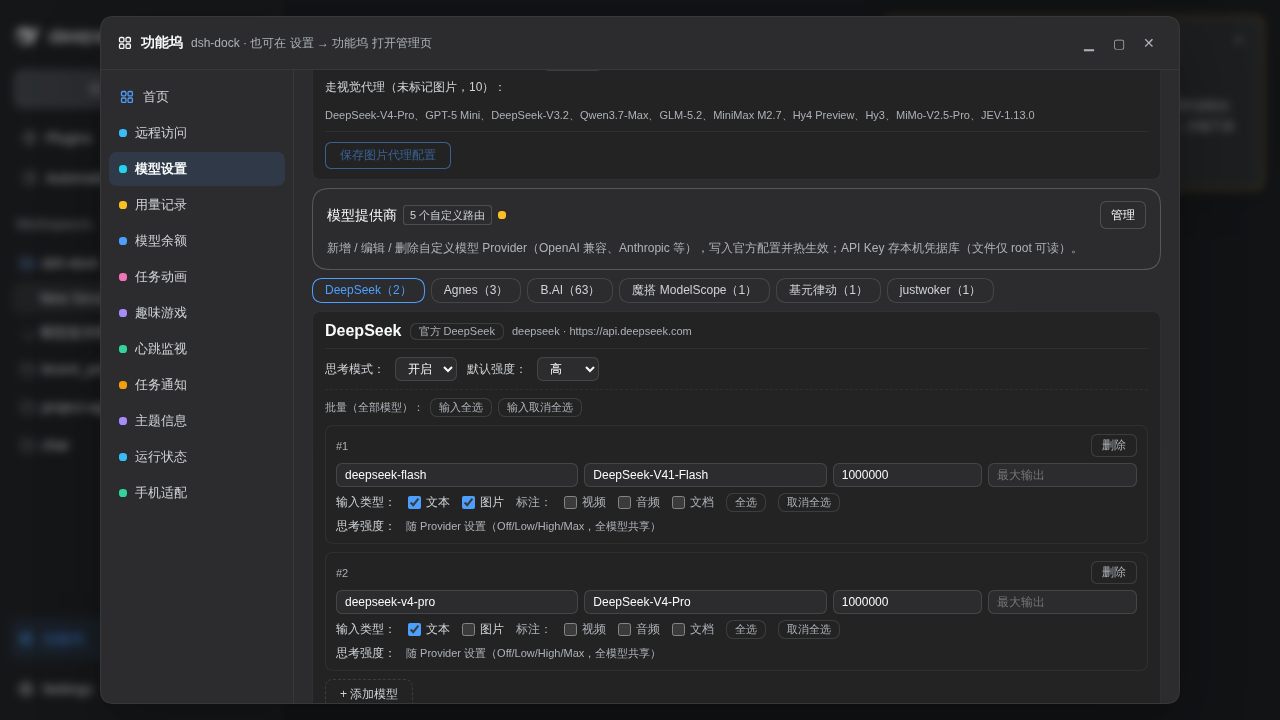
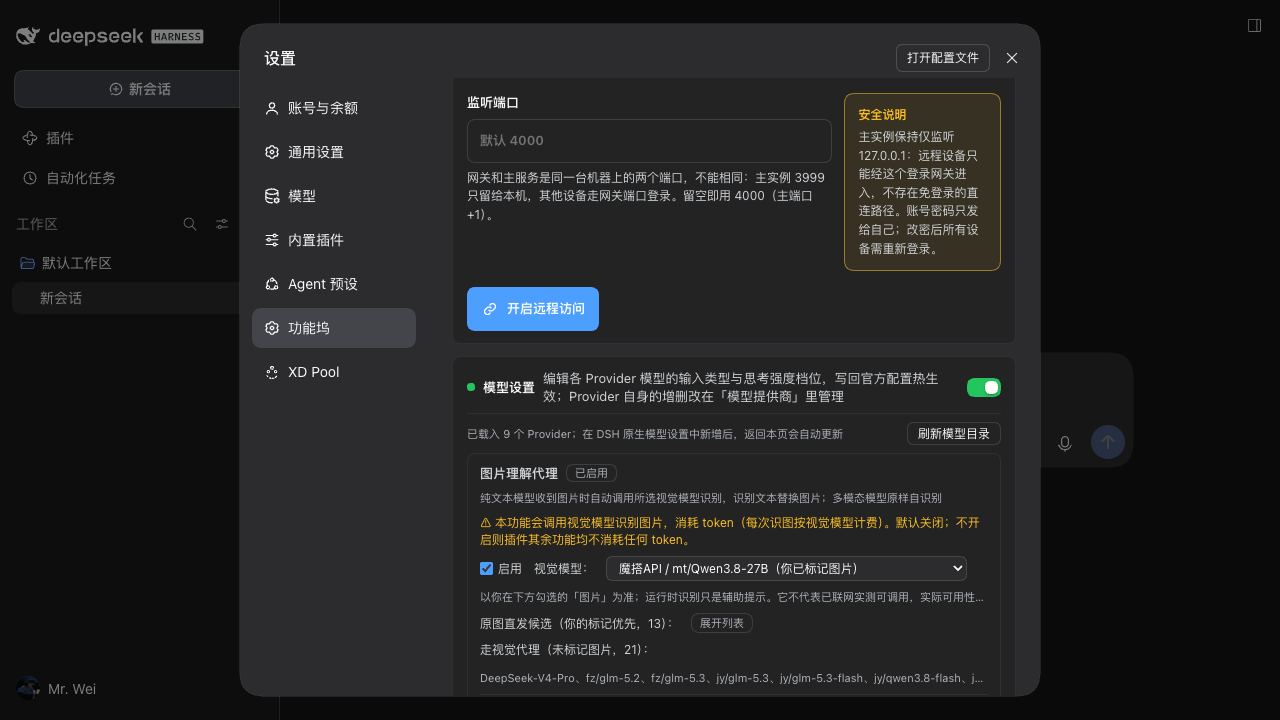
发版 v0.16.0：新增【语音朗读】+ 插件路由全量挂信任栅栏 + 模型提供商拆分
本版自 v0.15.0 以来共 14 条提交（含 3 条版本补丁），功能内容汇总：

新增

- 新功能【语音朗读】（features/tts/）：纯浏览器 Web Speech API 实现（不耗 token、
  不过服务器、零新依赖）。回合下方喇叭按钮三态（朗读/暂停/继续，暂停停在当前字、
  继续不重头），旁有「重新朗读」与「停止」；⚙ 就地快设浮层（语速/音量滑杆，
  播放中拖动下一句生效，宿主落盘 400ms 防抖）；任务结束自动朗读最后一条回复
  （走会话级任务追踪，冷读历史不补读；宿主路由不可用时回合尾本地兜底，与主路径
  键级去重）；Markdown 按人话清洗（跳过代码块与表格、思考过程不读、链接只念锚文字、
  只读前 N 句/字数上限、长文按句分片）；切换内容等 Chrome 异步清队（cancel 冲刷
  完才播新内容，不排旧队列）。配置段 .volatile()，宿主路由挂信任栅栏，默认停用。
- 【模型设置】拆分出独立功能【模型提供商】（features/providerconfig/，可单独启停）：
  Provider 增删改、API Key 写入、拉取上游模型列表全部迁出；「模型设置」只管模型
  条目属性（输入模态/思考强度）。共享逻辑上提 src/model-directory.js 与
  src/model-draft.js。/dsh-dock/models 的 GET 不再附带 apiKeyConfigured。
- 【任务动画】桌面伙伴挂点升级（features/animation/ 配合宿主回合尾座位）。

安全

- 插件路由全部挂上 DSH 的浏览器信任栅栏（rejectUntrustedRequest →
  connection.requestRejection，401/403，fail-closed）：此前任何能连到端口的人都能
  直接调用插件路由，实际可利用面至少有 mobile-relay 的改远程账号/开 0.0.0.0 网关
  与 models 路由的 Key 外带 + SSRF 两条。9 处 webServer.register 全部在入口第一行
  调用守卫，新增静态契约测试防新路由漏挂。

修复

- 【任务通知】需确认卡：移除「前台看过 8 秒也收」计时（漏提醒），改为绑定审批项
  对账自动收起（处理完即收、没处理完一直挂）；结束卡常驻到「看过」：点卡片直达
  会话、点进会话自动收起、手动 ✕，≥3 张自动叠放（悬停展开），上限 4 → 12。
- 【手机适配】手机端左上角标题被汉堡菜单压住：会话页头 padding-left 44px、两条
  原生页头补 28px（flex gap 16px → 4px 补回内容宽度）；430–320px 四档宽度
  逐字实测零侵入、无横向溢出、行数零回归。

文档

- 截图 dock-modelconfig.png 按拆分后的界面重拍（1280×720，隔离 dsh web 实例 +
  Playwright，内容区不再有「模型提供商」入口卡）。

验证：npm run build:client 重建产物（client.js 已带 0.16.0）；
npm run test:client（42 用例）与 npm run test:host（9 套）全绿、无跳过；
npm pack 产物经脱敏扫描通过。

diff --git a/client.js b/client.js
@@ -12,7 +12,11 @@ var __getOwnPropNames = Object.getOwnPropertyNames;
 var __getProtoOf = Object.getPrototypeOf;
 var __hasOwnProp = Object.prototype.hasOwnProperty;
 var __commonJS = (cb, mod) => function __require() {
-  return mod || (0, cb[__getOwnPropNames(cb)[0]])((mod = { exports: {} }).exports, mod), mod.exports;
+  try {
+    return mod || (0, cb[__getOwnPropNames(cb)[0]])((mod = { exports: {} }).exports, mod), mod.exports;
+  } catch (e) {
+    throw mod = 0, e;
+  }
 };
 var __export = (target, all) => {
   for (var name in all)
@@ -36,18 +40,18 @@ var __toESM = (mod, isNodeMode, target) => (target = mod != null ? __create(__ge
 ));
 var __toCommonJS = (mod) => __copyProps(__defProp({}, "__esModule", { value: true }), mod);
 
-// node_modules/.pnpm/qrcode@1.5.4/node_modules/qrcode/lib/can-promise.js
+// node_modules/qrcode/lib/can-promise.js
 var require_can_promise = __commonJS({
-  "node_modules/.pnpm/qrcode@1.5.4/node_modules/qrcode/lib/can-promise.js"(exports, module2) {
+  "node_modules/qrcode/lib/can-promise.js"(exports, module2) {
     module2.exports = function() {
       return typeof Promise === "function" && Promise.prototype && Promise.prototype.then;
     };
   }
 });
 
-// node_modules/.pnpm/qrcode@1.5.4/node_modules/qrcode/lib/core/utils.js
+// node_modules/qrcode/lib/core/utils.js
 var require_utils = __commonJS({
-  "node_modules/.pnpm/qrcode@1.5.4/node_modules/qrcode/lib/core/utils.js"(exports) {
+  "node_modules/qrcode/lib/core/utils.js"(exports) {
     var toSJISFunction;
     var CODEWORDS_COUNT = [
       0,
@@ -124,9 +128,9 @@ var require_utils = __commonJS({
   }
 });
 
-// node_modules/.pnpm/qrcode@1.5.4/node_modules/qrcode/lib/core/error-correction-level.js
+// node_modules/qrcode/lib/core/error-correction-level.js
 var require_error_correction_level = __commonJS({
-  "node_modules/.pnpm/qrcode@1.5.4/node_modules/qrcode/lib/core/error-correction-level.js"(exports) {
+  "node_modules/qrcode/lib/core/error-correction-level.js"(exports) {
     exports.L = { bit: 1 };
     exports.M = { bit: 0 };
     exports.Q = { bit: 3 };
@@ -169,9 +173,9 @@ var require_error_correction_level = __commonJS({
   }
 });
 
-// node_modules/.pnpm/qrcode@1.5.4/node_modules/qrcode/lib/core/bit-buffer.js
+// node_modules/qrcode/lib/core/bit-buffer.js
 var require_bit_buffer = __commonJS({
-  "node_modules/.pnpm/qrcode@1.5.4/node_modules/qrcode/lib/core/bit-buffer.js"(exports, module2) {
+  "node_modules/qrcode/lib/core/bit-buffer.js"(exports, module2) {
     function BitBuffer() {
       this.buffer = [];
       this.length = 0;
@@ -204,9 +208,9 @@ var require_bit_buffer = __commonJS({
   }
 });
 
-// node_modules/.pnpm/qrcode@1.5.4/node_modules/qrcode/lib/core/bit-matrix.js
+// node_modules/qrcode/lib/core/bit-matrix.js
 var require_bit_matrix = __commonJS({
-  "node_modules/.pnpm/qrcode@1.5.4/node_modules/qrcode/lib/core/bit-matrix.js"(exports, module2) {
+  "node_modules/qrcode/lib/core/bit-matrix.js"(exports, module2) {
     function BitMatrix(size) {
       if (!size || size < 1) {
         throw new Error("BitMatrix size must be defined and greater than 0");
@@ -233,9 +237,9 @@ var require_bit_matrix = __commonJS({
   }
 });
 
-// node_modules/.pnpm/qrcode@1.5.4/node_modules/qrcode/lib/core/alignment-pattern.js
+// node_modules/qrcode/lib/core/alignment-pattern.js
 var require_alignment_pattern = __commonJS({
-  "node_modules/.pnpm/qrcode@1.5.4/node_modules/qrcode/lib/core/alignment-pattern.js"(exports) {
+  "node_modules/qrcode/lib/core/alignment-pattern.js"(exports) {
     var getSymbolSize = require_utils().getSymbolSize;
     exports.getRowColCoords = function getRowColCoords(version) {
       if (version === 1) return [];
@@ -268,9 +272,9 @@ var require_alignment_pattern = __commonJS({
   }
 });
 
-// node_modules/.pnpm/qrcode@1.5.4/node_modules/qrcode/lib/core/finder-pattern.js
+// node_modules/qrcode/lib/core/finder-pattern.js
 var require_finder_pattern = __commonJS({
-  "node_modules/.pnpm/qrcode@1.5.4/node_modules/qrcode/lib/core/finder-pattern.js"(exports) {
+  "node_modules/qrcode/lib/core/finder-pattern.js"(exports) {
     var getSymbolSize = require_utils().getSymbolSize;
     var FINDER_PATTERN_SIZE = 7;
     exports.getPositions = function getPositions(version) {
@@ -287,9 +291,9 @@ var require_finder_pattern = __commonJS({
   }
 });
 
-// node_modules/.pnpm/qrcode@1.5.4/node_modules/qrcode/lib/core/mask-pattern.js
+// node_modules/qrcode/lib/core/mask-pattern.js
 var require_mask_pattern = __commonJS({
-  "node_modules/.pnpm/qrcode@1.5.4/node_modules/qrcode/lib/core/mask-pattern.js"(exports) {
+  "node_modules/qrcode/lib/core/mask-pattern.js"(exports) {
     exports.Patterns = {
       PATTERN000: 0,
       PATTERN001: 1,
@@ -429,9 +433,9 @@ var require_mask_pattern = __commonJS({
   }
 });
 
-// node_modules/.pnpm/qrcode@1.5.4/node_modules/qrcode/lib/core/error-correction-code.js
+// node_modules/qrcode/lib/core/error-correction-code.js
 var require_error_correction_code = __commonJS({
-  "node_modules/.pnpm/qrcode@1.5.4/node_modules/qrcode/lib/core/error-correction-code.js"(exports) {
+  "node_modules/qrcode/lib/core/error-correction-code.js"(exports) {
     var ECLevel = require_error_correction_level();
     var EC_BLOCKS_TABLE = [
       // L  M  Q  H
@@ -790,9 +794,9 @@ var require_error_correction_code = __commonJS({
   }
 });
 
-// node_modules/.pnpm/qrcode@1.5.4/node_modules/qrcode/lib/core/galois-field.js
+// node_modules/qrcode/lib/core/galois-field.js
 var require_galois_field = __commonJS({
-  "node_modules/.pnpm/qrcode@1.5.4/node_modules/qrcode/lib/core/galois-field.js"(exports) {
+  "node_modules/qrcode/lib/core/galois-field.js"(exports) {
     var EXP_TABLE = new Uint8Array(512);
     var LOG_TABLE = new Uint8Array(256);
     (function initTables() {
@@ -823,9 +827,9 @@ var require_galois_field = __commonJS({
   }
 });
 
-// node_modules/.pnpm/qrcode@1.5.4/node_modules/qrcode/lib/core/polynomial.js
+// node_modules/qrcode/lib/core/polynomial.js
 var require_polynomial = __commonJS({
-  "node_modules/.pnpm/qrcode@1.5.4/node_modules/qrcode/lib/core/polynomial.js"(exports) {
+  "node_modules/qrcode/lib/core/polynomial.js"(exports) {
     var GF = require_galois_field();
     exports.mul = function mul(p1, p2) {
       const coeff = new Uint8Array(p1.length + p2.length - 1);
@@ -859,9 +863,9 @@ var require_polynomial = __commonJS({
   }
 });
 
-// node_modules/.pnpm/qrcode@1.5.4/node_modules/qrcode/lib/core/reed-solomon-encoder.js
+// node_modules/qrcode/lib/core/reed-solomon-encoder.js
 var require_reed_solomon_encoder = __commonJS({
-  "node_modules/.pnpm/qrcode@1.5.4/node_modules/qrcode/lib/core/reed-solomon-encoder.js"(exports, module2) {
+  "node_modules/qrcode/lib/core/reed-solomon-encoder.js"(exports, module2) {
     var Polynomial = require_polynomial();
     function ReedSolomonEncoder(degree) {
       this.genPoly = void 0;
@@ -891,18 +895,18 @@ var require_reed_solomon_encoder = __commonJS({
   }
 });
 
-// node_modules/.pnpm/qrcode@1.5.4/node_modules/qrcode/lib/core/version-check.js
+// node_modules/qrcode/lib/core/version-check.js
 var require_version_check = __commonJS({
-  "node_modules/.pnpm/qrcode@1.5.4/node_modules/qrcode/lib/core/version-check.js"(exports) {
+  "node_modules/qrcode/lib/core/version-check.js"(exports) {
     exports.isValid = function isValid(version) {
       return !isNaN(version) && version >= 1 && version <= 40;
     };
   }
 });
 
-// node_modules/.pnpm/qrcode@1.5.4/node_modules/qrcode/lib/core/regex.js
+// node_modules/qrcode/lib/core/regex.js
 var require_regex = __commonJS({
-  "node_modules/.pnpm/qrcode@1.5.4/node_modules/qrcode/lib/core/regex.js"(exports) {
+  "node_modules/qrcode/lib/core/regex.js"(exports) {
     var numeric = "[0-9]+";
     var alphanumeric = "[A-Z $%*+\\-./:]+";
     var kanji = "(?:[u3000-u303F]|[u3040-u309F]|[u30A0-u30FF]|[uFF00-uFFEF]|[u4E00-u9FAF]|[u2605-u2606]|[u2190-u2195]|u203B|[u2010u2015u2018u2019u2025u2026u201Cu201Du2225u2260]|[u0391-u0451]|[u00A7u00A8u00B1u00B4u00D7u00F7])+";
@@ -928,9 +932,9 @@ var require_regex = __commonJS({
   }
 });
 
-// node_modules/.pnpm/qrcode@1.5.4/node_modules/qrcode/lib/core/mode.js
+// node_modules/qrcode/lib/core/mode.js
 var require_mode = __commonJS({
-  "node_modules/.pnpm/qrcode@1.5.4/node_modules/qrcode/lib/core/mode.js"(exports) {
+  "node_modules/qrcode/lib/core/mode.js"(exports) {
     var VersionCheck = require_version_check();
     var Regex = require_regex();
     exports.NUMERIC = {
@@ -1009,9 +1013,9 @@ var require_mode = __commonJS({
   }
 });
 
-// node_modules/.pnpm/qrcode@1.5.4/node_modules/qrcode/lib/core/version.js
+// node_modules/qrcode/lib/core/version.js
 var require_version = __commonJS({
-  "node_modules/.pnpm/qrcode@1.5.4/node_modules/qrcode/lib/core/version.js"(exports) {
+  "node_modules/qrcode/lib/core/version.js"(exports) {
     var Utils = require_utils();
     var ECCode = require_error_correction_code();
     var ECLevel = require_error_correction_level();
@@ -1104,9 +1108,9 @@ var require_version = __commonJS({
   }
 });
 
-// node_modules/.pnpm/qrcode@1.5.4/node_modules/qrcode/lib/core/format-info.js
+// node_modules/qrcode/lib/core/format-info.js
 var require_format_info = __commonJS({
-  "node_modules/.pnpm/qrcode@1.5.4/node_modules/qrcode/lib/core/format-info.js"(exports) {
+  "node_modules/qrcode/lib/core/format-info.js"(exports) {
     var Utils = require_utils();
     var G15 = 1 << 10 | 1 << 8 | 1 << 5 | 1 << 4 | 1 << 2 | 1 << 1 | 1 << 0;
     var G15_MASK = 1 << 14 | 1 << 12 | 1 << 10 | 1 << 4 | 1 << 1;
@@ -1122,9 +1126,9 @@ var require_format_info = __commonJS({
   }
 });
 
-// node_modules/.pnpm/qrcode@1.5.4/node_modules/qrcode/lib/core/numeric-data.js
+// node_modules/qrcode/lib/core/numeric-data.js
 var require_numeric_data = __commonJS({
-  "node_modules/.pnpm/qrcode@1.5.4/node_modules/qrcode/lib/core/numeric-data.js"(exports, module2) {
+  "node_modules/qrcode/lib/core/numeric-data.js"(exports, module2) {
     var Mode = require_mode();
     function NumericData(data) {
       this.mode = Mode.NUMERIC;
@@ -1157,9 +1161,9 @@ var require_numeric_data = __commonJS({
   }
 });
 
-// node_modules/.pnpm/qrcode@1.5.4/node_modules/qrcode/lib/core/alphanumeric-data.js
+// node_modules/qrcode/lib/core/alphanumeric-data.js
 var require_alphanumeric_data = __commonJS({
-  "node_modules/.pnpm/qrcode@1.5.4/node_modules/qrcode/lib/core/alphanumeric-data.js"(exports, module2) {
+  "node_modules/qrcode/lib/core/alphanumeric-data.js"(exports, module2) {
     var Mode = require_mode();
     var ALPHA_NUM_CHARS = [
       "0",
@@ -1236,9 +1240,9 @@ var require_alphanumeric_data = __commonJS({
   }
 });
 
-// node_modules/.pnpm/qrcode@1.5.4/node_modules/qrcode/lib/core/byte-data.js
+// node_modules/qrcode/lib/core/byte-data.js
 var require_byte_data = __commonJS({
-  "node_modules/.pnpm/qrcode@1.5.4/node_modules/qrcode/lib/core/byte-data.js"(exports, module2) {
+  "node_modules/qrcode/lib/core/byte-data.js"(exports, module2) {
     var Mode = require_mode();
     function ByteData(data) {
       this.mode = Mode.BYTE;
@@ -1266,9 +1270,9 @@ var require_byte_data = __commonJS({
   }
 });
 
-// node_modules/.pnpm/qrcode@1.5.4/node_modules/qrcode/lib/core/kanji-data.js
+// node_modules/qrcode/lib/core/kanji-data.js
 var require_kanji_data = __commonJS({
-  "node_modules/.pnpm/qrcode@1.5.4/node_modules/qrcode/lib/core/kanji-data.js"(exports, module2) {
+  "node_modules/qrcode/lib/core/kanji-data.js"(exports, module2) {
     var Mode = require_mode();
     var Utils = require_utils();
     function KanjiData(data) {
@@ -1305,9 +1309,9 @@ var require_kanji_data = __commonJS({
   }
 });
 
-// node_modules/.pnpm/dijkstrajs@1.0.3/node_modules/dijkstrajs/dijkstra.js
+// node_modules/dijkstrajs/dijkstra.js
 var require_dijkstra = __commonJS({
-  "node_modules/.pnpm/dijkstrajs@1.0.3/node_modules/dijkstrajs/dijkstra.js"(exports, module2) {
+  "node_modules/dijkstrajs/dijkstra.js"(exports, module2) {
     "use strict";
     var dijkstra = {
       single_source_shortest_paths: function(graph, s, d) {
@@ -1406,9 +1410,9 @@ var require_dijkstra = __commonJS({
   }
 });
 
-// node_modules/.pnpm/qrcode@1.5.4/node_modules/qrcode/lib/core/segments.js
+// node_modules/qrcode/lib/core/segments.js
 var require_segments = __commonJS({
-  "node_modules/.pnpm/qrcode@1.5.4/node_modules/qrcode/lib/core/segments.js"(exports) {
+  "node_modules/qrcode/lib/core/segments.js"(exports) {
     var Mode = require_mode();
     var NumericData = require_numeric_data();
     var AlphanumericData = require_alphanumeric_data();
@@ -1592,9 +1596,9 @@ var require_segments = __commonJS({
   }
 });
 
-// node_modules/.pnpm/qrcode@1.5.4/node_modules/qrcode/lib/core/qrcode.js
+// node_modules/qrcode/lib/core/qrcode.js
 var require_qrcode = __commonJS({
-  "node_modules/.pnpm/qrcode@1.5.4/node_modules/qrcode/lib/core/qrcode.js"(exports) {
+  "node_modules/qrcode/lib/core/qrcode.js"(exports) {
     var Utils = require_utils();
     var ECLevel = require_error_correction_level();
     var BitBuffer = require_bit_buffer();
@@ -1853,9 +1857,9 @@ var require_qrcode = __commonJS({
   }
 });
 
-// node_modules/.pnpm/qrcode@1.5.4/node_modules/qrcode/lib/renderer/utils.js
+// node_modules/qrcode/lib/renderer/utils.js
 var require_utils2 = __commonJS({
-  "node_modules/.pnpm/qrcode@1.5.4/node_modules/qrcode/lib/renderer/utils.js"(exports) {
+  "node_modules/qrcode/lib/renderer/utils.js"(exports) {
     function hex2rgba(hex) {
       if (typeof hex === "number") {
         hex = hex.toString();
@@ -1933,9 +1937,9 @@ var require_utils2 = __commonJS({
   }
 });
 
-// node_modules/.pnpm/qrcode@1.5.4/node_modules/qrcode/lib/renderer/canvas.js
+// node_modules/qrcode/lib/renderer/canvas.js
 var require_canvas = __commonJS({
-  "node_modules/.pnpm/qrcode@1.5.4/node_modules/qrcode/lib/renderer/canvas.js"(exports) {
+  "node_modules/qrcode/lib/renderer/canvas.js"(exports) {
     var Utils = require_utils2();
     function clearCanvas(ctx, canvas, size) {
       ctx.clearRect(0, 0, canvas.width, canvas.height);
@@ -1986,9 +1990,9 @@ var require_canvas = __commonJS({
   }
 });
 
-// node_modules/.pnpm/qrcode@1.5.4/node_modules/qrcode/lib/renderer/svg-tag.js
+// node_modules/qrcode/lib/renderer/svg-tag.js
 var require_svg_tag = __commonJS({
-  "node_modules/.pnpm/qrcode@1.5.4/node_modules/qrcode/lib/renderer/svg-tag.js"(exports) {
+  "node_modules/qrcode/lib/renderer/svg-tag.js"(exports) {
     var Utils = require_utils2();
     function getColorAttrib(color, attrib) {
       const alpha = color.a / 255;
@@ -2044,9 +2048,9 @@ var require_svg_tag = __commonJS({
   }
 });
 
-// node_modules/.pnpm/qrcode@1.5.4/node_modules/qrcode/lib/browser.js
+// node_modules/qrcode/lib/browser.js
 var require_browser = __commonJS({
-  "node_modules/.pnpm/qrcode@1.5.4/node_modules/qrcode/lib/browser.js"(exports) {
+  "node_modules/qrcode/lib/browser.js"(exports) {
     var canPromise = require_can_promise();
     var QRCode2 = require_qrcode();
     var CanvasRenderer = require_canvas();
@@ -13882,7 +13886,7 @@ var feature13 = {
 };
 
 // src/client.jsx
-var DOCK_VERSION = "0.15.3";
+var DOCK_VERSION = "0.16.0";
 var BUILTIN_FEATURES = [feature, feature2, feature3, feature4, feature5, feature6, feature7, feature8, feature9, feature10, feature11, feature12, feature13];
 var PLANNED_FEATURES = [];
 var PLANNED_NOTES = {};

diff --git a/src/client.jsx b/src/client.jsx
@@ -33,7 +33,7 @@ import { feature as fMobileRelay } from "../features/mobile-relay/view.jsx";
 import { feature as fMobile } from "../features/mobile/view.js";
 
 const name = "dsh-dock";
-const DOCK_VERSION = "0.15.3";
+const DOCK_VERSION = "0.16.0";
 
 // ---- 内置功能注册表：新功能 = features/<id>/ 加模块 + 这里 import 一行 ----
 const BUILTIN_FEATURES = [fTokenlog, fModelconfig, fProviderConfig, fHeartbeat, fTheme, fBalance, fAnimation, fNotify, fRunState, fTts, fGames, fMobileRelay, fMobile];

diff --git a/CHANGELOG.md b/CHANGELOG.md
@@ -2,7 +2,7 @@
 
 本文件记录 dsh-dock 各版本的变更。格式参考 [Keep a Changelog](https://keepachangelog.com/zh-CN/)。
 
-## 未发布
+## v0.16.0 — 2026-10-23
 
 ### 新增
 
@@ -99,8 +99,7 @@
     页面（排版与官方「设置 → 模型」一致，深链 `params.openProviderForm` 仍可直达新增表单）。
   - 兼容性：`/dsh-dock/models` 的 GET 不再附带 `apiKeyConfigured`（移到模型提供商路由），
     模型设置页也不再显示「缺密钥」提示（该提示属于 Provider 配置，已随功能迁走）。
-  - ⚠ 截图 `screenshots/dock-modelconfig.png` 仍是拆分前的（带「模型提供商」入口卡），
-    下次发版前重拍；`dock-modelconfig-providers*.png` 三张表现不变。
+  - 截图 `screenshots/dock-modelconfig.png` 已按拆分后的界面重拍（入口卡已移除）。
 
 ### 修复
 
